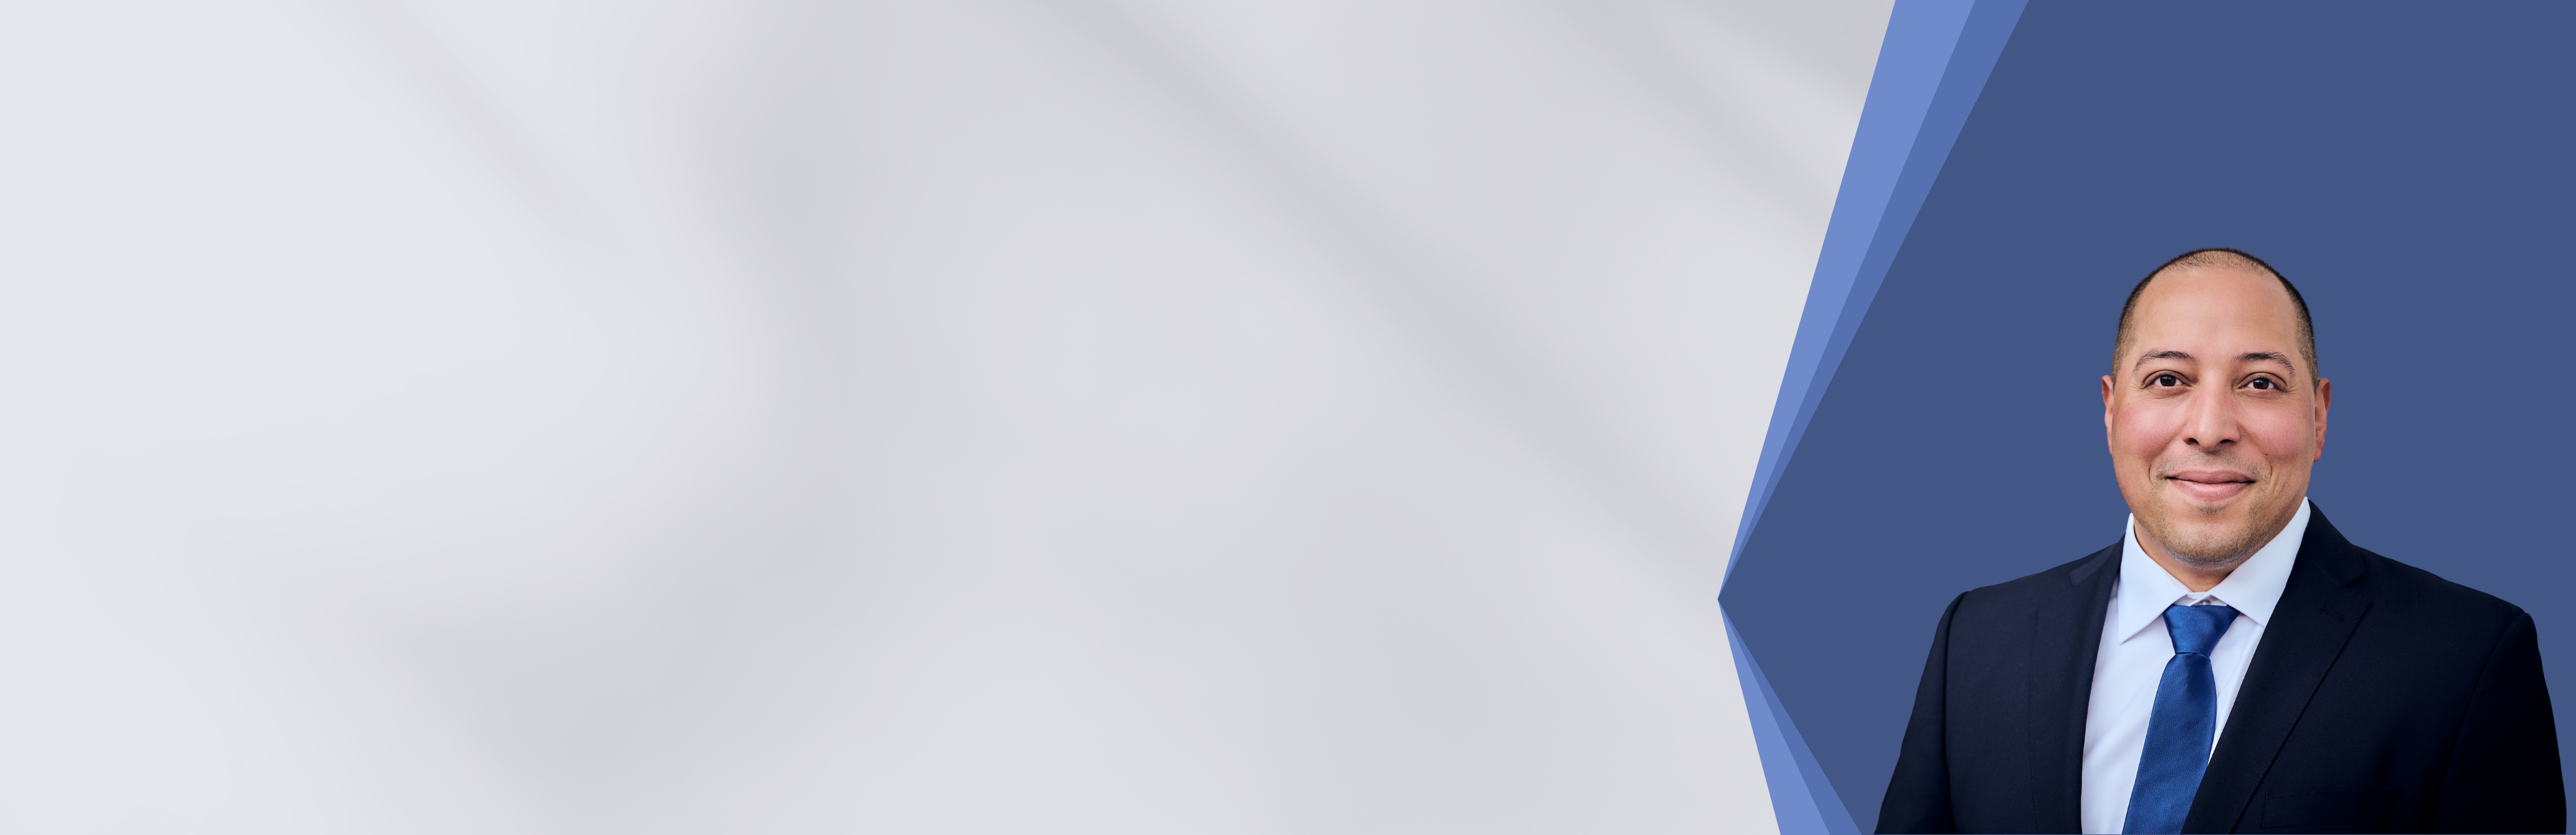
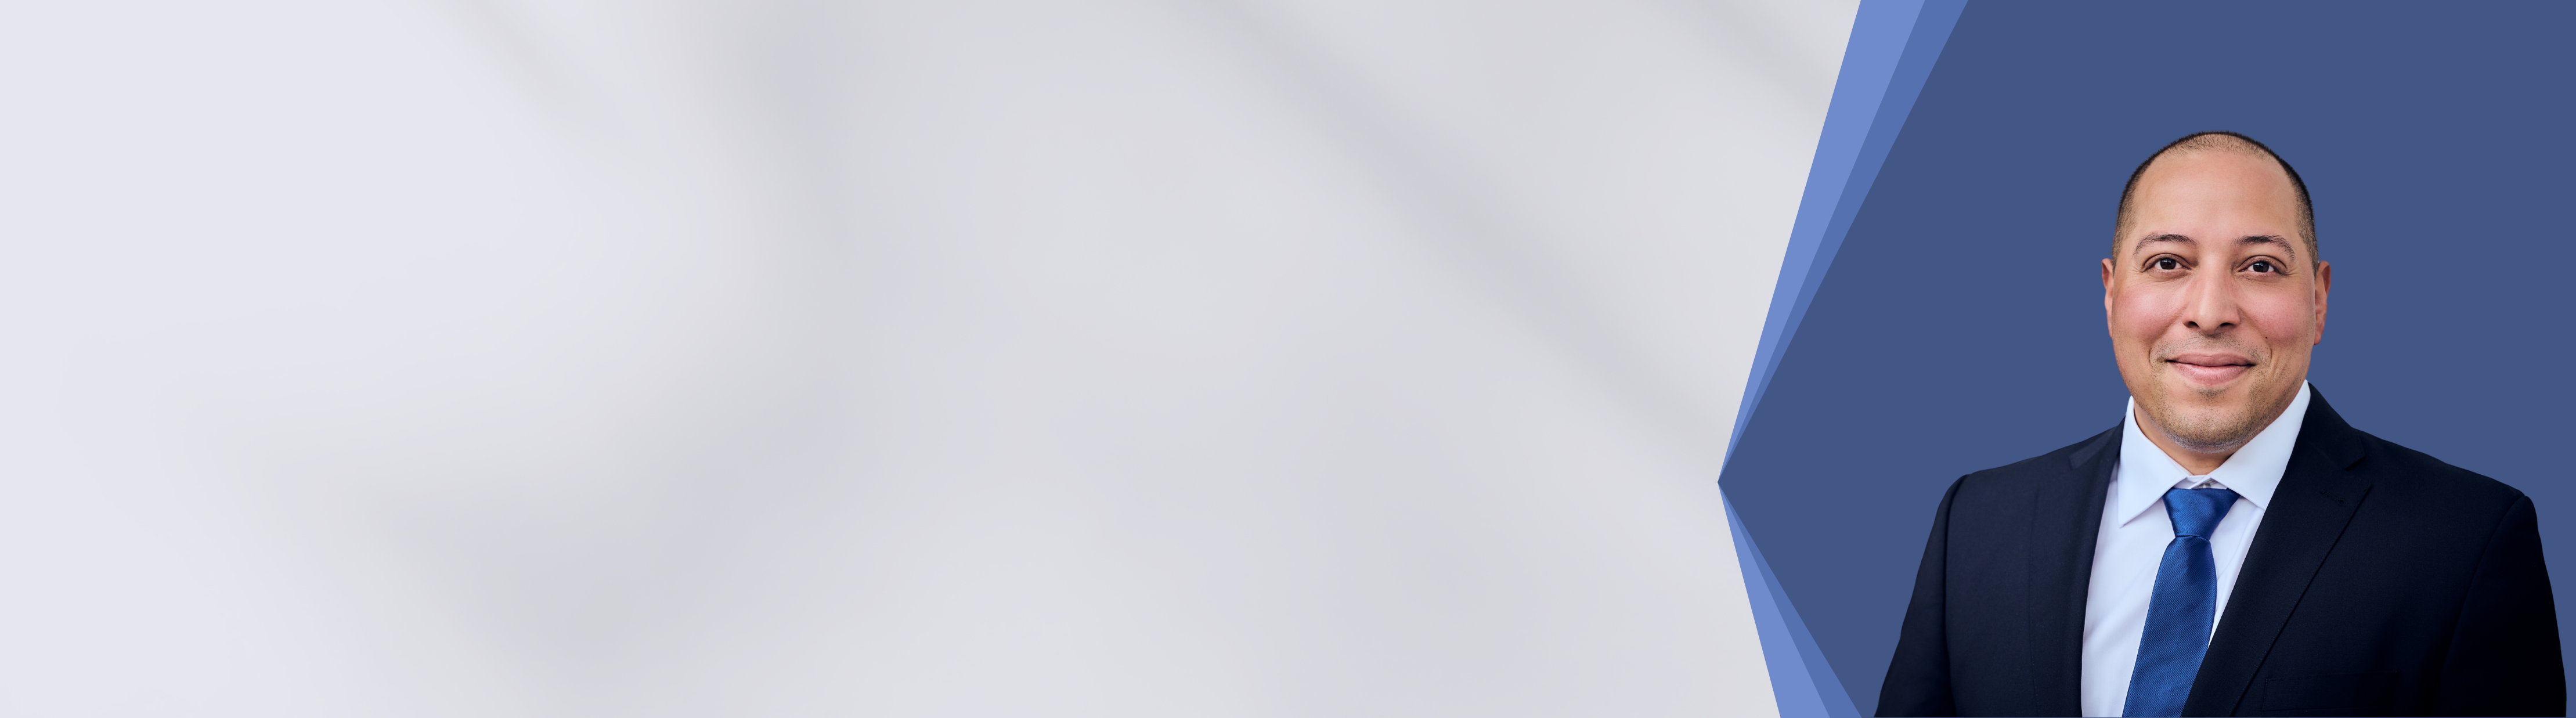
ccc

Changed region(s): [[0.7463, 0.1843, 0.995, 1.0], [0.653, 0.0, 0.8085, 0.9523]]

diff --git a/src/pages/Contact/Banner.jsx b/src/pages/Contact/Banner.jsx
@@ -9,7 +9,7 @@ const AboutBanner = () => {
       <div className="absolute inset-0">
 
         <img
-          src="/assets/images/2.png"
+          src="/assets/images/45.png"
           alt="About Banner"
           className="w-full h-full object-cover object-[100%_center] md:object-center"
         />

diff --git a/src/pages/Home/ServicesSection.jsx b/src/pages/Home/ServicesSection.jsx
@@ -181,7 +181,7 @@ const ServicesSection = () => {
           <div className="absolute inset-0">
 
             <img src="/assets/images/2.png"
-              className="w-full h-full object-cover object-[90%_top]"
+              className="w-full h-full object-cover object-[10%_top]"
               alt="cta"
             />
 

diff --git a/src/pages/Imprint/Banner.jsx b/src/pages/Imprint/Banner.jsx
@@ -9,7 +9,7 @@ const AboutBanner = () => {
       <div className="absolute inset-0">
 
         <img
-          src="/assets/images/1.png"
+          src="/assets/images/46.png"
           alt="About Banner"
           className="w-full h-full object-cover md:object-cover object-center"
         />

diff --git a/src/pages/Privacy-policy/Banner.jsx b/src/pages/Privacy-policy/Banner.jsx
@@ -9,7 +9,7 @@ const AboutBanner = () => {
       <div className="absolute inset-0">
 
         <img
-          src="/assets/images/1.png"
+          src="/assets/images/46.png"
           alt="About Banner"
           className="w-full h-full object-cover md:object-cover object-center"
         />

diff --git a/src/pages/Vita/Banner.jsx b/src/pages/Vita/Banner.jsx
@@ -9,7 +9,7 @@ const AboutBanner = () => {
       <div className="absolute inset-0">
 
         <img
-          src="/assets/images/3.png"
+          src="/assets/images/46.png"
           alt="About Banner"
           className="w-full h-full object-cover object-[90%_center] md:object-center"
         />

diff --git a/src/pages/insights/Banner.jsx b/src/pages/insights/Banner.jsx
@@ -9,7 +9,7 @@ const AboutBanner = () => {
       <div className="absolute inset-0">
 
         <img
-          src="/assets/images/Untitled design (47).png"
+          src="/assets/images/47.png"
           alt="About Banner"
           className="w-full h-full object-cover md:object-cover object-center"
         />